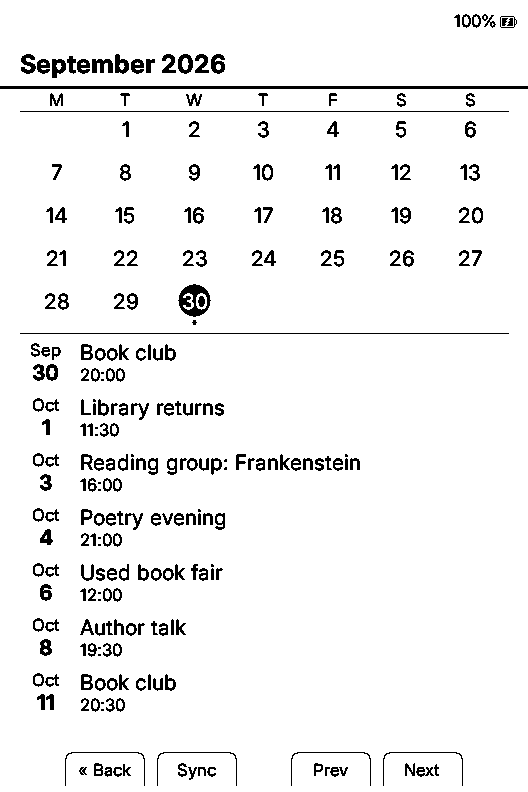
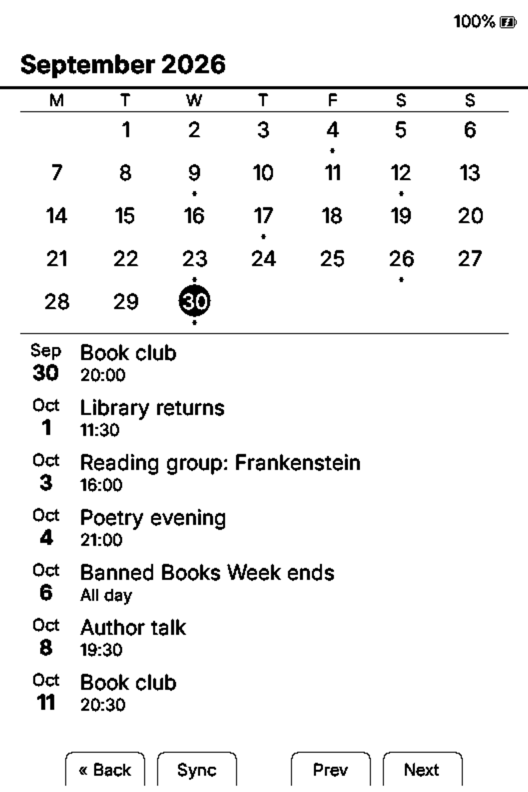
fix: calendar month view, dashboard layout, softkey labels, ECHO version on boot; docs and images

diff --git a/src/activities/apps/CalendarActivity.cpp b/src/activities/apps/CalendarActivity.cpp
@@ -10,6 +10,7 @@
 #include <cstring>
 #include <ctime>
 #include <new>
+#include <numeric>
 #include <string>
 
 #include "CrossPointSettings.h"
@@ -35,7 +36,6 @@ static constexpr int kSmallFont = SMALL_FONT_ID;
 static constexpr size_t kMaxEvents = 100;
 static constexpr int kKeepDaysBeforeToday = 31;  // older events are dropped while parsing
 static constexpr int kDownloadBufSize = 32768;
-
 
 namespace {
 
@@ -134,7 +134,7 @@ bool CalendarActivity::parseIcsDateTime(const char* value, CalendarEvent& out) {
       // UTC timestamp: shift into the device's timezone (set through TZ by the time settings).
       const int64_t epoch = daysFromCivil(year, month, day) * 86400 + hour * 3600 + minute * 60;
       const time_t t = static_cast<time_t>(epoch);
-      struct tm local {};
+      struct tm local{};
       if (localtime_r(&t, &local) != nullptr) {
         out.year = static_cast<uint16_t>(local.tm_year + 1900);
         out.month = static_cast<uint8_t>(local.tm_mon + 1);
@@ -289,7 +289,7 @@ void CalendarActivity::readClock() {
   const time_t now = time(nullptr);
   haveToday = false;
   if (now < 1700000000) return;  // clock not set yet
-  struct tm local {};
+  struct tm local{};
   if (localtime_r(&now, &local) == nullptr) return;
   haveToday = true;
   todayYear = local.tm_year + 1900;
@@ -447,10 +447,11 @@ void CalendarActivity::render(RenderLock&&) {
   const int rowHeight = std::max(textLine + 18, 40);
   const int circle = std::min(cellWidth - 8, textLine + 8);
 
-  uint32_t daysWithEvents = 0;  // bit d = at least one event on day d
-  for (const auto& e : events) {
-    if (e.year == viewYear && e.month == viewMonth) daysWithEvents |= (1u << e.day);
-  }
+  // Bit d set = at least one event on day d of the shown month.
+  const uint32_t daysWithEvents =
+      std::accumulate(events.begin(), events.end(), uint32_t{0}, [this](const uint32_t mask, const CalendarEvent& e) {
+        return (e.year == viewYear && e.month == viewMonth) ? (mask | (1u << e.day)) : mask;
+      });
 
   for (int day = 1; day <= monthDays; ++day) {
     const int slot = firstWeekday + day - 1;
@@ -496,8 +497,8 @@ void CalendarActivity::render(RenderLock&&) {
   if (syncing) {
     renderer.drawCenteredText(kTextFont, agendaTop + agendaRowHeight, tr(STR_SYNCING_TIME));
   } else if (agendaCount == 0) {
-    const char* message = (SETTINGS.calendarUrl[0] == '\0' && events.empty()) ? tr(STR_CALENDAR_NO_URL)
-                                                                              : tr(STR_CALENDAR_NO_EVENTS);
+    const char* message =
+        (SETTINGS.calendarUrl[0] == '\0' && events.empty()) ? tr(STR_CALENDAR_NO_URL) : tr(STR_CALENDAR_NO_EVENTS);
     const std::string fitted = renderer.truncatedText(kTextFont, message, gridWidth);
     renderer.drawCenteredText(kTextFont, agendaTop + agendaRowHeight / 2, fitted.c_str());
   } else {
@@ -524,7 +525,8 @@ void CalendarActivity::render(RenderLock&&) {
       if (e.allDay) {
         snprintf(timeText, sizeof(timeText), "%s", tr(STR_CAL_ALL_DAY));
       } else {
-        snprintf(timeText, sizeof(timeText), "%02u:%02u", static_cast<unsigned>(e.hour), static_cast<unsigned>(e.minute));
+        snprintf(timeText, sizeof(timeText), "%02u:%02u", static_cast<unsigned>(e.hour),
+                 static_cast<unsigned>(e.minute));
       }
       renderer.drawText(kSmallFont, textLeft, rowY + 2 + textLine, timeText);
     }

diff --git a/src/activities/boot_sleep/SleepActivity.cpp b/src/activities/boot_sleep/SleepActivity.cpp
@@ -660,23 +660,28 @@ void SleepActivity::renderReadingDashboardSleepScreen() const {
   renderer.drawLine(left, y, right, y);
   y += metrics.verticalSpacing;
 
-  const std::string goalLine = std::string(tr(STR_DAILY_GOAL)) + ": " + std::to_string(todayMinutes) + "/" +
-                               std::to_string(goalMinutes) + " min";
-  renderer.drawText(UI_10_FONT_ID, left, y, goalLine.c_str());
   // The real percentage sits at the right end of the goal line; it can exceed 100%.
   const uint32_t goalPercent =
       goalMinutes > 0 ? static_cast<uint32_t>((static_cast<uint64_t>(todayMinutes) * 100) / goalMinutes) : 0;
   const std::string percentText = std::to_string(goalPercent) + "%";
-  renderer.drawText(UI_10_FONT_ID, right - renderer.getTextWidth(UI_10_FONT_ID, percentText.c_str()), y,
-                    percentText.c_str());
+  const int percentWidth = renderer.getTextWidth(UI_10_FONT_ID, percentText.c_str());
+  // Long translations (and the narrower X4 screen) must not run into the percentage: only the
+  // label is shortened, the minutes always stay readable.
+  const std::string goalValue = ": " + std::to_string(todayMinutes) + "/" + std::to_string(goalMinutes) + " min";
+  const int goalValueWidth = renderer.getTextWidth(UI_10_FONT_ID, goalValue.c_str());
+  const std::string goalLine =
+      renderer.truncatedText(UI_10_FONT_ID, tr(STR_DAILY_GOAL), right - left - percentWidth - 12 - goalValueWidth) +
+      goalValue;
+  renderer.drawText(UI_10_FONT_ID, left, y, goalLine.c_str());
+  renderer.drawText(UI_10_FONT_ID, right - percentWidth, y, percentText.c_str());
   y += smallLineH + 4;
   // Bar filled up to 100% at most, so an exceeded goal never spills past the frame.
   const int barWidth = right - left;
   renderer.drawRect(left, y, barWidth, metrics.progressBarHeight);
   const int fillWidth =
-      goalMinutes > 0 ? static_cast<int>((static_cast<uint64_t>(barWidth - 4) * std::min(todayMinutes, goalMinutes)) /
-                                         goalMinutes)
-                      : 0;
+      goalMinutes > 0
+          ? static_cast<int>((static_cast<uint64_t>(barWidth - 4) * std::min(todayMinutes, goalMinutes)) / goalMinutes)
+          : 0;
   if (fillWidth > 0) renderer.fillRect(left + 2, y + 2, fillWidth, metrics.progressBarHeight - 4);
   y += metrics.progressBarHeight + metrics.verticalSpacing;
   renderer.drawLine(left, y, right, y);

diff --git a/src/activities/apps/CalendarActivity.h b/src/activities/apps/CalendarActivity.h
@@ -39,7 +39,7 @@ class CalendarActivity final : public Activity {
   void render(RenderLock&&) override;
 
   // iCal "DTSTART" value ("20260930", "20260930T180000", "20260930T180000Z") -> local event fields.
-  // Public and static so the host tests can exercise it.
+  // Static: it only depends on its arguments and on the process timezone (TZ).
   static bool parseIcsDateTime(const char* value, CalendarEvent& out);
 
  private:

diff --git a/README.it.md b/README.it.md
@@ -17,8 +17,8 @@ Firmware open source per e-reader Xteink X3 e X4.
 
 ## Download
 
-Scarica il firmware per il tuo dispositivo dalla [**release v1.0.1**](https://github.com/filippocobelli/Echo/releases/tag/v1.0.1)
-(tutte le versioni sono nella pagina [Releases](https://github.com/filippocobelli/Echo/releases)).
+Scarica il firmware per il tuo dispositivo dall'[**ultima release**](https://github.com/filippocobelli/Echo/releases/latest)
+(le versioni precedenti sono nella pagina [Releases](https://github.com/filippocobelli/Echo/releases)).
 
 | Dispositivo | File |
 |-------------|------|
@@ -109,7 +109,7 @@ Catturati dal simulatore di ECHO a risoluzione nativa (528×792, Xteink X3), con
     <td align="center"><img src="docs/images/screenshots/03-reading.png" width="220" alt="Pagina di lettura"><br><sub>Pagina di lettura</sub></td>
   </tr>
   <tr>
-    <td align="center"><img src="docs/images/screenshots/04-calendar.png" width="220" alt="Calendario"><br><sub>Agenda da un feed iCal</sub></td>
+    <td align="center"><img src="docs/images/screenshots/04-calendar.png" width="220" alt="Calendario, vista mensile con agenda"><br><sub>Calendario — vista mensile e agenda (iCal)</sub></td>
     <td align="center"><img src="docs/images/screenshots/05-sleep-reading-dashboard.png" width="220" alt="Sospensione con Reading Dashboard"><br><sub>Sospensione — Reading Dashboard</sub></td>
     <td align="center"><img src="docs/images/screenshots/06-cloud-library.png" width="220" alt="Cloud Library"><br><sub>Cloud Library via WebDAV</sub></td>
   </tr>

diff --git a/README.md b/README.md
@@ -17,8 +17,8 @@ Open-source e-reader firmware for the Xteink X3 and X4.
 
 ## Download
 
-Grab the firmware for your device from the [**v1.0.1 release**](https://github.com/filippocobelli/Echo/releases/tag/v1.0.1)
-(all versions are on the [Releases](https://github.com/filippocobelli/Echo/releases) page).
+Grab the firmware for your device from the [**latest release**](https://github.com/filippocobelli/Echo/releases/latest)
+(older versions are on the [Releases](https://github.com/filippocobelli/Echo/releases) page).
 
 | Device | File |
 |--------|------|
@@ -107,7 +107,7 @@ Captured from the ECHO simulator at native resolution (528×792, Xteink X3), wit
     <td align="center"><img src="docs/images/screenshots/03-reading.png" width="220" alt="Reading page"><br><sub>Reading page</sub></td>
   </tr>
   <tr>
-    <td align="center"><img src="docs/images/screenshots/04-calendar.png" width="220" alt="Calendar"><br><sub>Calendar agenda from an iCal feed</sub></td>
+    <td align="center"><img src="docs/images/screenshots/04-calendar.png" width="220" alt="Calendar, month view with agenda"><br><sub>Calendar — month view and agenda (iCal)</sub></td>
     <td align="center"><img src="docs/images/screenshots/05-sleep-reading-dashboard.png" width="220" alt="Reading Dashboard sleep screen"><br><sub>Sleep screen — Reading Dashboard</sub></td>
     <td align="center"><img src="docs/images/screenshots/06-cloud-library.png" width="220" alt="Cloud Library"><br><sub>Cloud Library over WebDAV</sub></td>
   </tr>

diff --git a/CHANGELOG.md b/CHANGELOG.md
@@ -31,7 +31,8 @@ Release v1.0.1.
 ### Fixed
 - **Reading Dashboard sleep screen.** The percentage no longer prints over the streak line: it sits
   at the right end of the goal line and shows the real value (e.g. 150%). The progress bar is capped
-  at 100% and no longer spills outside its frame when the daily goal is exceeded.
+  at 100% and no longer spills outside its frame when the daily goal is exceeded. A long goal label
+  (e.g. Italian on the X4) is shortened with an ellipsis, so the minutes and the percentage stay readable.
 - **Button hint labels wider than their box** (any language, any screen, X3 and X4) are shortened
   with an ellipsis in all four themes instead of running into the neighbouring button.
 
